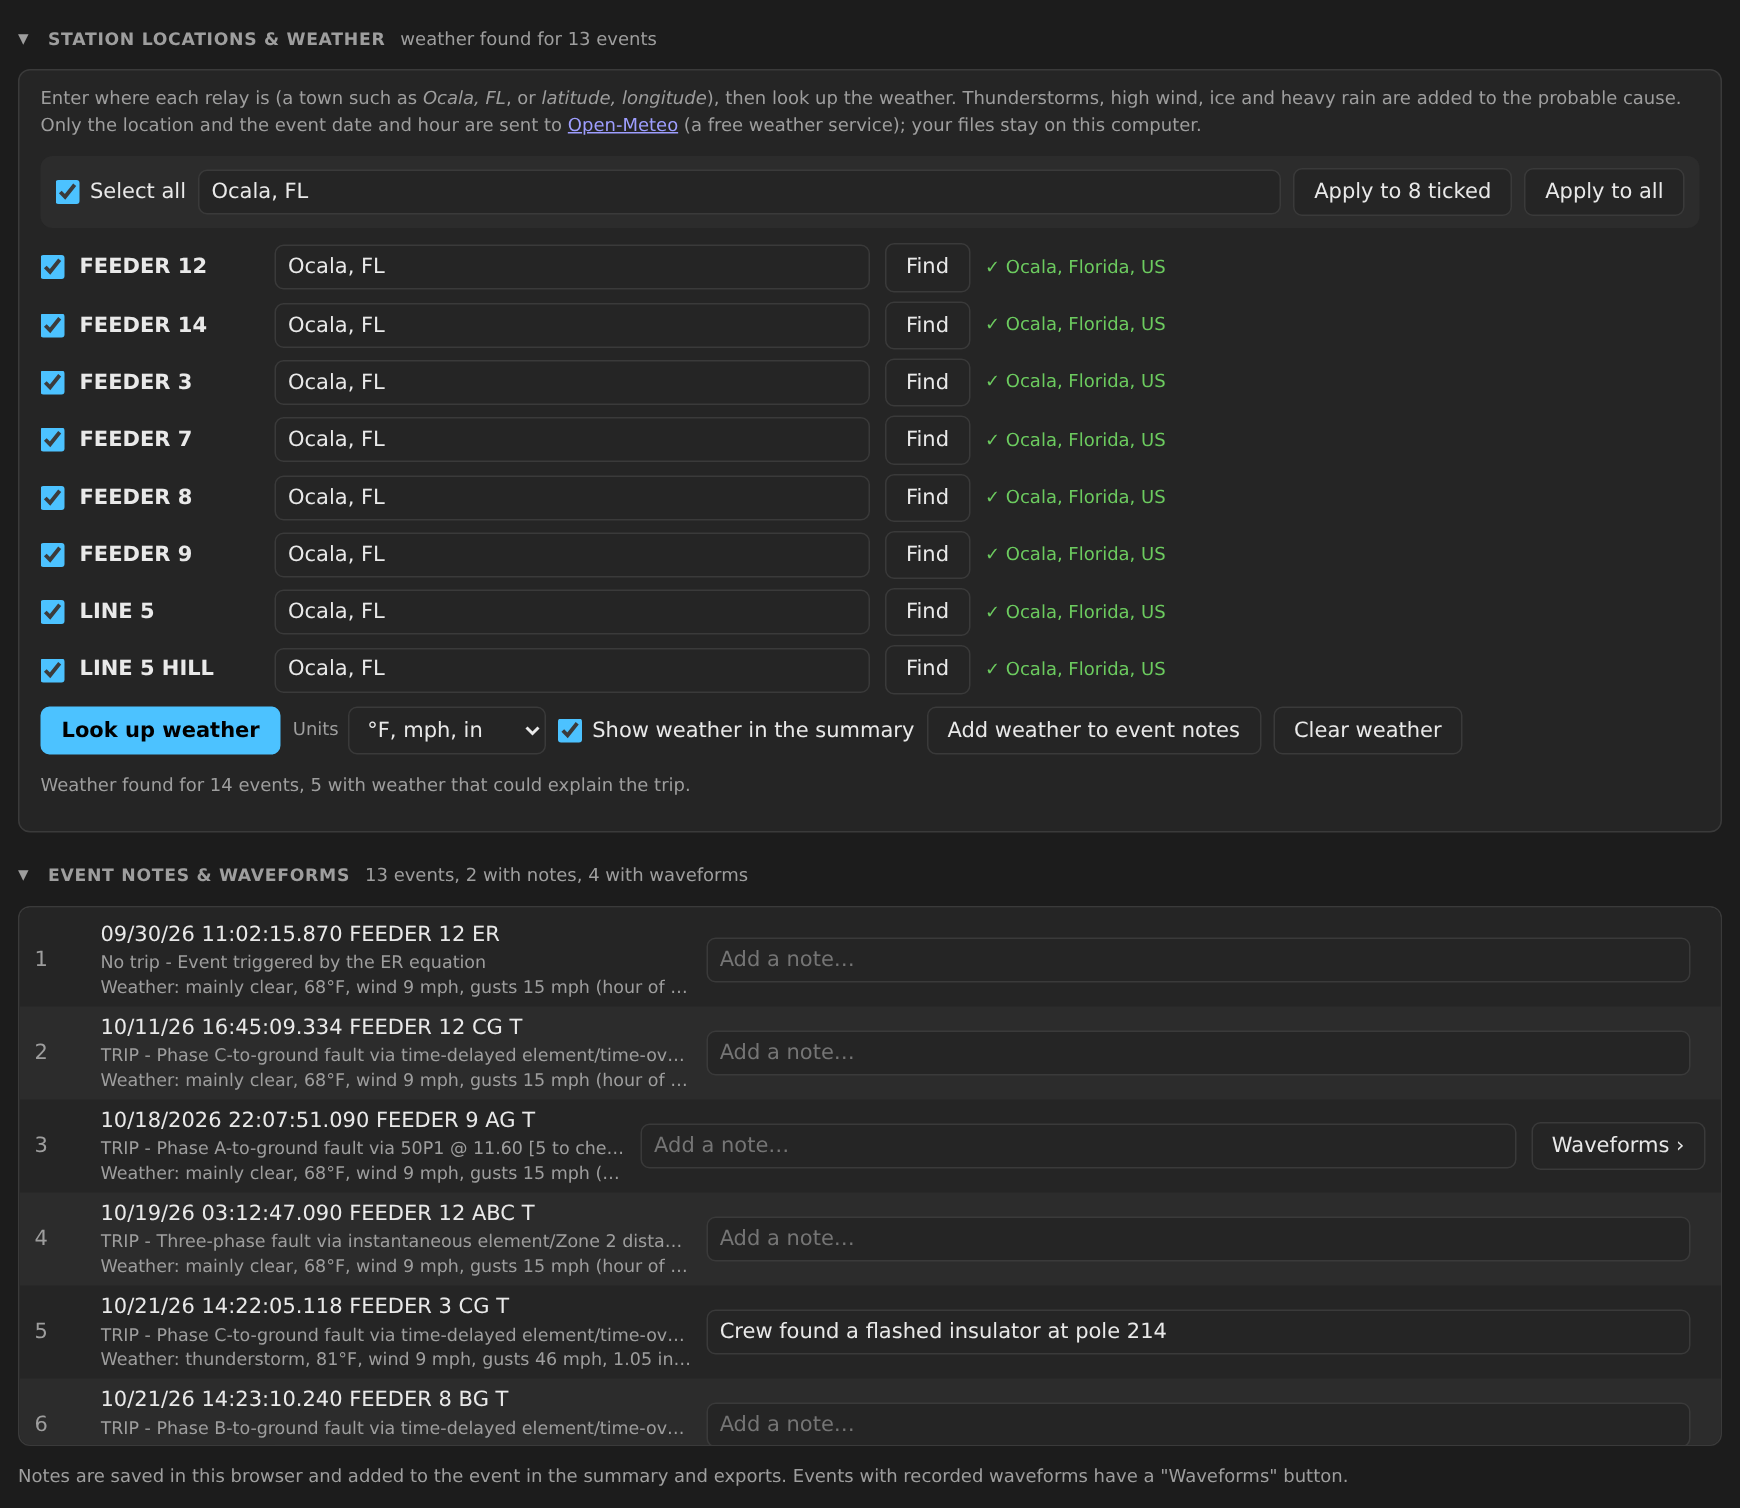
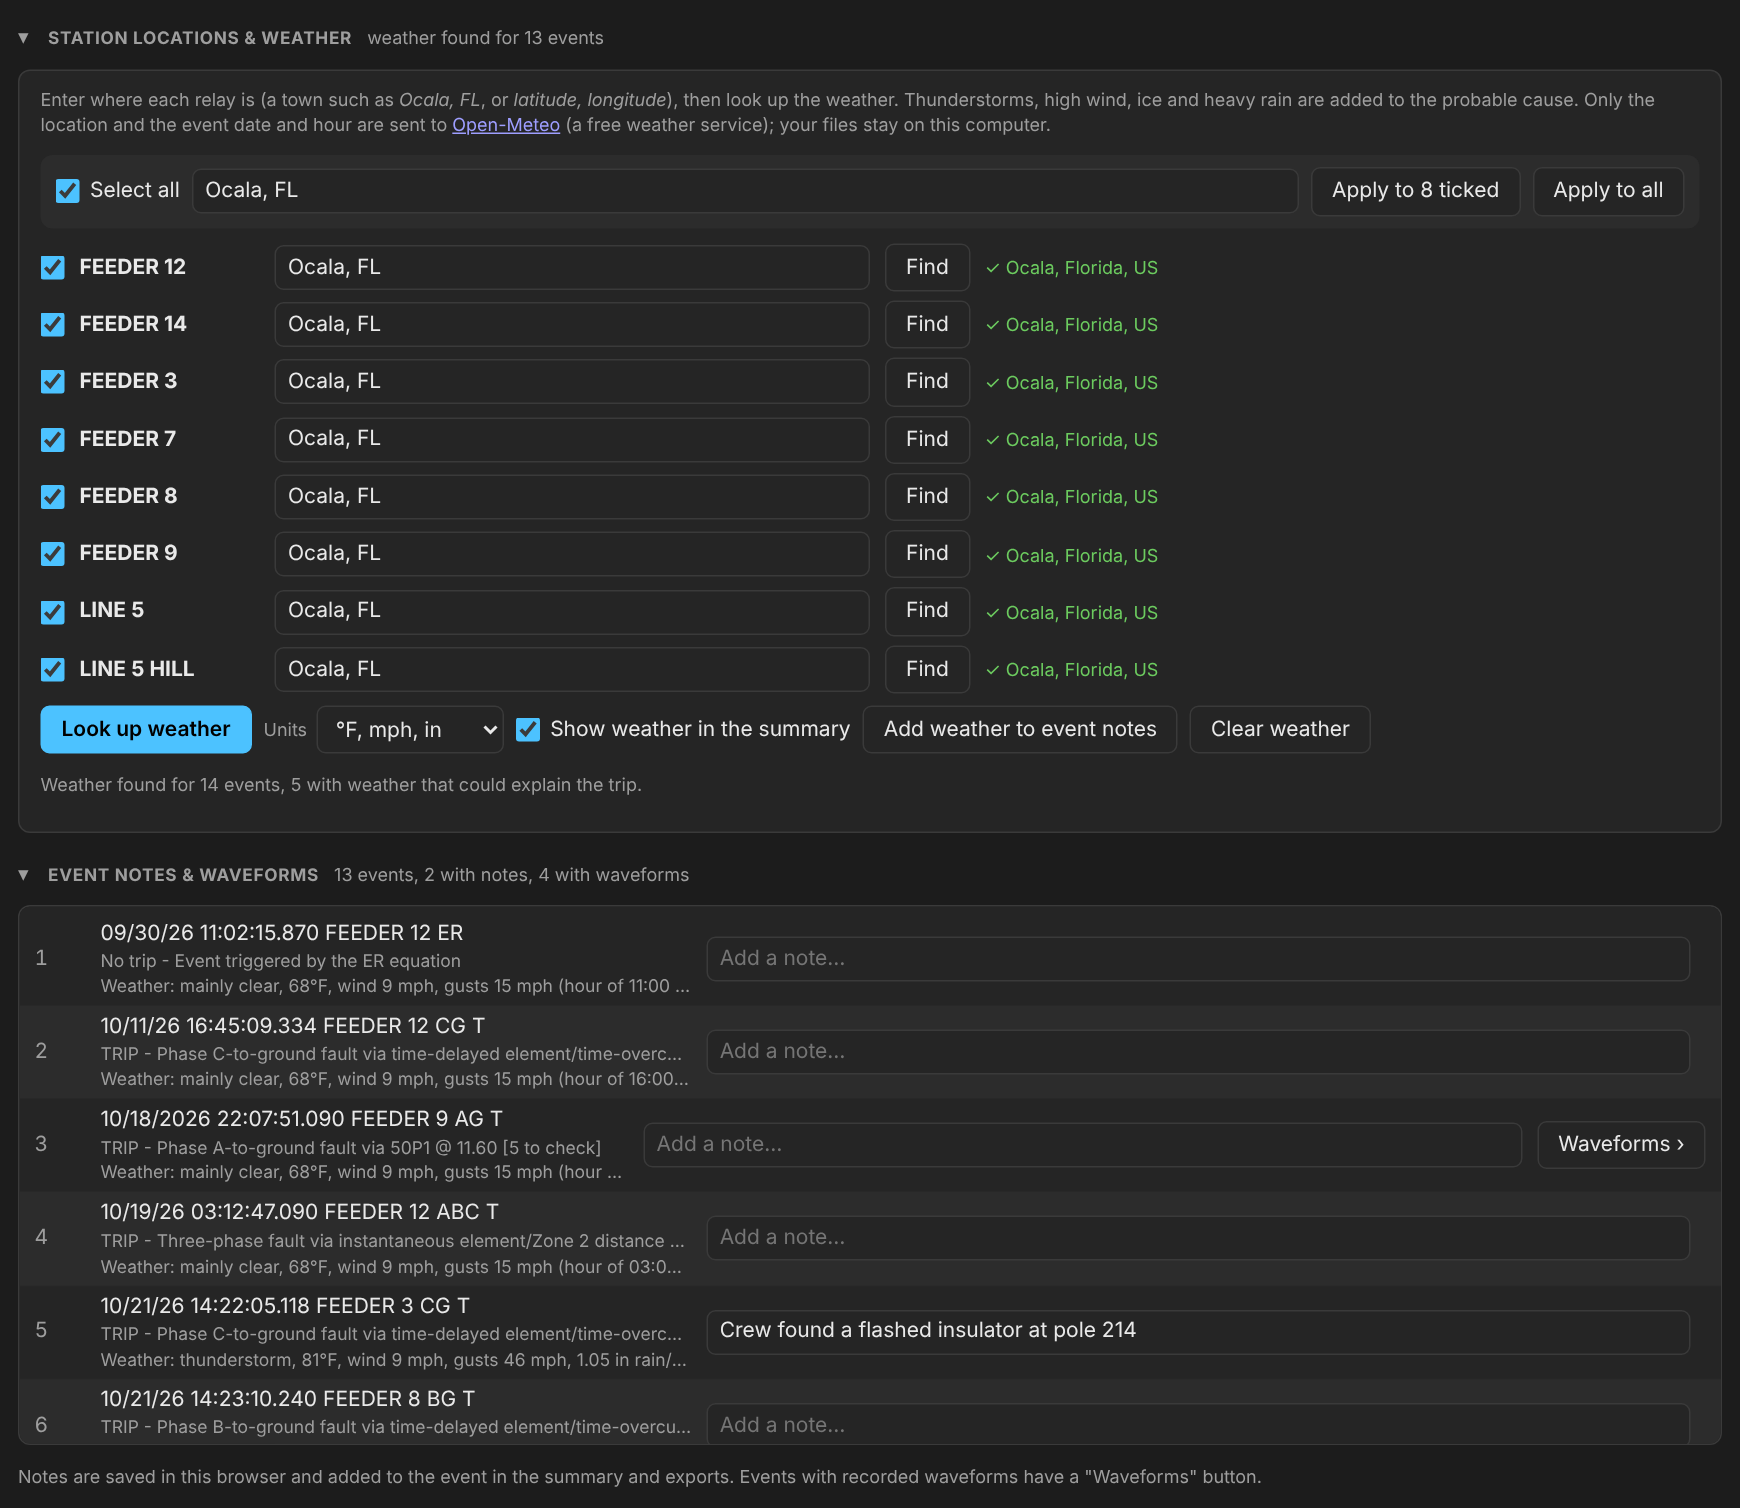
File names include the station location when set; Inter font for consistent screenshots on Linux
Claude-Session: https://claude.ai/code/session_01BS34QgFyAAVe6uV8tbu1Yn

diff --git a/web/app.html b/web/app.html
@@ -35,7 +35,7 @@
 html, body { margin: 0; }
 body {
   background: var(--bg); color: var(--text);
-  font: 14px/1.45 "Segoe UI Variable Text", "Segoe UI", system-ui, -apple-system, "Helvetica Neue", Arial, sans-serif;
+  font: 14px/1.45 "Segoe UI Variable Text", "Segoe UI", Inter, system-ui, -apple-system, "Helvetica Neue", Arial, sans-serif;
   -webkit-font-smoothing: antialiased;
 }
 ::selection { background: var(--sel); }
@@ -46,7 +46,7 @@ body {
 header { display: flex; align-items: center; gap: 14px; flex-wrap: wrap; margin-bottom: 14px; }
 header img { width: 42px; height: 42px; flex: none; }
 .titles { flex: 1 1 260px; min-width: 0; }
-h1 { font: 600 22px/1.2 "Segoe UI Variable Display", "Segoe UI", system-ui, sans-serif; margin: 0; letter-spacing: -.01em; }
+h1 { font: 600 22px/1.2 "Segoe UI Variable Display", "Segoe UI", Inter, system-ui, sans-serif; margin: 0; letter-spacing: -.01em; }
 .sub { color: var(--muted); margin-top: 2px; }
 .head-actions { display: flex; align-items: center; gap: 12px; flex-wrap: wrap; }
 
@@ -89,7 +89,7 @@ input[type="search"]::placeholder { color: var(--muted); }
 }
 .drop:hover, .drop.over { background: var(--drop-hover); border-color: var(--accent); }
 .drop svg { width: 34px; height: 34px; color: var(--accent); display: block; margin: 0 auto 6px; }
-.drop .big { font: 600 16px/1.3 "Segoe UI Variable Display", "Segoe UI", system-ui, sans-serif; }
+.drop .big { font: 600 16px/1.3 "Segoe UI Variable Display", "Segoe UI", Inter, system-ui, sans-serif; }
 .drop .formats { color: var(--muted); font-size: 12px; margin-top: 5px; word-spacing: 2px; }
 
 /* sections */
@@ -124,7 +124,7 @@ textarea::placeholder { color: var(--muted); }
   tab-size: 4; outline: none;
 }
 #out:empty::before { content: attr(data-placeholder); color: var(--muted); white-space: pre-wrap;
-  font-family: "Segoe UI Variable Text", "Segoe UI", system-ui, sans-serif; font-size: 14px; }
+  font-family: "Segoe UI Variable Text", "Segoe UI", Inter, system-ui, sans-serif; font-size: 14px; }
 #out .h1 { font-weight: 700; font-size: 15px; }
 #out .h2 { font-weight: 700; color: var(--accent); }
 #out .rule { color: var(--rule); }
@@ -208,7 +208,7 @@ input[type="text"], .evlist input, #wPins input {
 .wv-head { display: flex; align-items: baseline; gap: 12px; flex-wrap: wrap; margin: 2px 0 8px; }
 .wv-head h2 { margin: 0; font-size: 18px; }
 .verdict { display: grid; grid-template-columns: auto 1fr; gap: 16px; align-items: start; margin-bottom: 12px; }
-.verdict .code { font: 700 26px/1 "Segoe UI Variable Display", "Segoe UI", system-ui, sans-serif; min-width: 76px; text-align: center;
+.verdict .code { font: 700 26px/1 "Segoe UI Variable Display", "Segoe UI", Inter, system-ui, sans-serif; min-width: 76px; text-align: center;
   padding: 12px 10px; border-radius: 8px; background: var(--surface-2); }
 .verdict .code.trip { color: var(--trip); } .verdict .code.ok { color: var(--ok); } .verdict .code.warn { color: var(--warn); }
 .verdict .name { font-weight: 700; font-size: 15px; }
@@ -1397,7 +1397,13 @@ const SUMMARY_EXPORT = {
 };
 const safeName = (s) => String(s || "").replace(/[\\/:*?"<>|\x00-\x1f]+/g, "-").replace(/\s+/g, " ").trim().replace(/[. ]+$/, "").slice(0, 120);
 const isoDay = (dt) => { const d = new Date(dt / 1000); return `${d.getUTCFullYear()}-${String(d.getUTCMonth() + 1).padStart(2, "0")}-${String(d.getUTCDate()).padStart(2, "0")}`; };
-/** A file name that says what's in the export: the relay(s), event type and dates. */
+/** "Ocala, Florida" for the relays' saved locations (one or two places), else "". */
+function placeText(relays) {
+  const locs = store.get("locations", {});
+  const places = [...new Set(relays.map((r) => locs[String(r).toUpperCase()]).filter(Boolean).map((l) => l.label.split(",").slice(0, 2).map((x) => x.trim()).join(", ")))];
+  return places.length && places.length <= 2 ? places.join(" & ") : "";
+}
+/** A file name that says what's in the export: the relay(s), place, event type and dates. */
 function summaryName() {
   if (!state.cache) return `Trip summary ${stamp()}`;
   const shown = core.prepareView(state.cache.events, state.cache.rdb, currentOpts()).shown;
@@ -1406,11 +1412,13 @@ function summaryName() {
   const dts = shown.map((it) => it.dt).filter((x) => x !== null).sort((a, b) => a - b);
   if (shown.length === 1) {
     const e = shown[0].e, d = shown[0].dt !== null ? new Date(shown[0].dt / 1000) : null;
-    return safeName(`${core.relayKey(e)} ${e.event_type || "event"} ${d ? isoDay(shown[0].dt) + " " + String(d.getUTCHours()).padStart(2, "0") + String(d.getUTCMinutes()).padStart(2, "0") : ""} trip summary`);
+    const at = placeText([core.relayKey(e)]);
+    return safeName(`${core.relayKey(e)}${at ? " (" + at + ")" : ""} ${e.event_type || "event"} ${d ? isoDay(shown[0].dt) + " " + String(d.getUTCHours()).padStart(2, "0") + String(d.getUTCMinutes()).padStart(2, "0") : ""} trip summary`);
   }
   const span = dts.length ? (isoDay(dts[0]) === isoDay(dts[dts.length - 1]) ? isoDay(dts[0]) : `${isoDay(dts[0])} to ${isoDay(dts[dts.length - 1])}`) : stamp();
   const who = relays.length === 1 ? relays[0] : relays.length <= 3 ? relays.join(", ") : `${relays.length} relays`;
-  return safeName(`${who} trip summary ${span} (${shown.length} events)`);
+  const at = placeText(relays);
+  return safeName(`${who}${at ? " (" + at + ")" : ""} trip summary ${span} (${shown.length} events)`);
 }
 function exportDefaults() {
   const saved = store.get(SUMMARY_EXPORT.storeKey, {});

diff --git a/web/wave_ui.js b/web/wave_ui.js
@@ -16,7 +16,7 @@ const LIGHT = { bg: "#ffffff", ink: "#1b1b1b", muted: "#616161", grid: "#e6e6e6"
                 trip: "#c42b1c", warn: "#9a5800", shade: "rgba(0,95,184,0.06)", zoom: "rgba(0,95,184,0.14)", pin: "#9a5800" };
 const DARK = { bg: "#252525", ink: "#e9e9e9", muted: "#9e9e9e", grid: "#333333", axis: "#474747", accent: "#4cc2ff",
                trip: "#ff8f85", warn: "#ffb74d", shade: "rgba(76,194,255,0.07)", zoom: "rgba(76,194,255,0.18)", pin: "#ffb74d" };
-const FONT = '"Segoe UI Variable Text","Segoe UI",system-ui,-apple-system,Arial,sans-serif';
+const FONT = '"Segoe UI Variable Text","Segoe UI",Inter,system-ui,-apple-system,Arial,sans-serif';
 
 // Plain-English meaning of each fault type, for the verdict card
 const MEANS = {
@@ -1029,7 +1029,7 @@ function create(ctx) {
     const fig = currentFigure(v);
     fig.canvas.toBlob((b) => { ctx.download(`${(v && v.fileName) || fileNameFor("png")}.png`, b); ctx.setStatus("Saved the graph picture (with your notes)"); }, "image/png");
   }
-  const fileSafe = (s) => s.replace(/[\\/:*?"<>|]+/g, "-").replace(/\s+/g, " ").trim().slice(0, 80);
+  const fileSafe = (s) => s.replace(/[\\/:*?"<>|]+/g, "-").replace(/\s+/g, " ").trim().slice(0, 120);
   /** e.g. "FEEDER 3 2026-10-21 14-22-05 CG" or "Reference - CT saturation during a ground fault" */
   function baseName() {
     const rec = st.rec;
@@ -1041,7 +1041,9 @@ function create(ctx) {
       when = `${d.getUTCFullYear()}-${p2(d.getUTCMonth() + 1)}-${p2(d.getUTCDate())} ${p2(d.getUTCHours())}-${p2(d.getUTCMinutes())}-${p2(d.getUTCSeconds())}`;
     }
     const code = st.an.cls.code === "NONE" ? "no fault" : st.an.cls.code;
-    return fileSafe(`${rec.relay || rec.station || rec.source} ${when} ${code}`);
+    const loc = (ctx.store.get("locations", {})[String(rec.relay || "").toUpperCase()] || null);
+    const at = loc ? ` (${loc.label.split(",").slice(0, 2).map((x) => x.trim()).join(", ")})` : "";
+    return fileSafe(`${rec.relay || rec.station || rec.source}${at} ${when} ${code}`);
   }
   const fileNameFor = (f) => `${baseName()} ${f === "docx" ? "waveform analysis" : f === "png" ? "graph" : "samples"}`;
   function exportCsv(v) {

diff --git a/tests/browser_test.js b/tests/browser_test.js
@@ -199,6 +199,7 @@ const ok = (name, cond, extra) => { results.push(`${cond ? "PASS" : "FAIL"}  ${n
   const [dW] = await Promise.all([page.waitForEvent("download"), page.click("#expGo")]);
   const wdoc = fs.readFileSync(await dW.path()).toString("latin1");
   ok("waveform Word report has the graph, phasors and the note", wdoc.startsWith("PK") && wdoc.includes("Arc restrikes here") && wdoc.includes("word/media/image2.png"), dW.suggestedFilename());
+  ok("file name includes the station location once it's set", dW.suggestedFilename().startsWith("FEEDER 3 (Ocala, Florida) 2026-10-21"), dW.suggestedFilename());
   await shot(page, "web_wave_light.png", { fullPage: true });
   await page.click("#wSimple");
   await page.click("#tabSummary");

diff --git a/README.md b/README.md
@@ -214,7 +214,8 @@ Every export first asks **what to include**:
 
 Your choices are remembered. Files are named after what's in them, for example
 *FEEDER 12 trip summary 2026-10-11 to 2026-10-27 (5 events).docx* or
-*FEEDER 3 2026-10-21 14-22-05 CG waveform analysis.docx*, and you can change the
+*FEEDER 3 (Ocala, Florida) 2026-10-21 14-22-05 CG waveform analysis.docx* (the
+place is added once you've set the station's location), and you can change the
 name before saving.
 
 ## Web page or Windows program?
